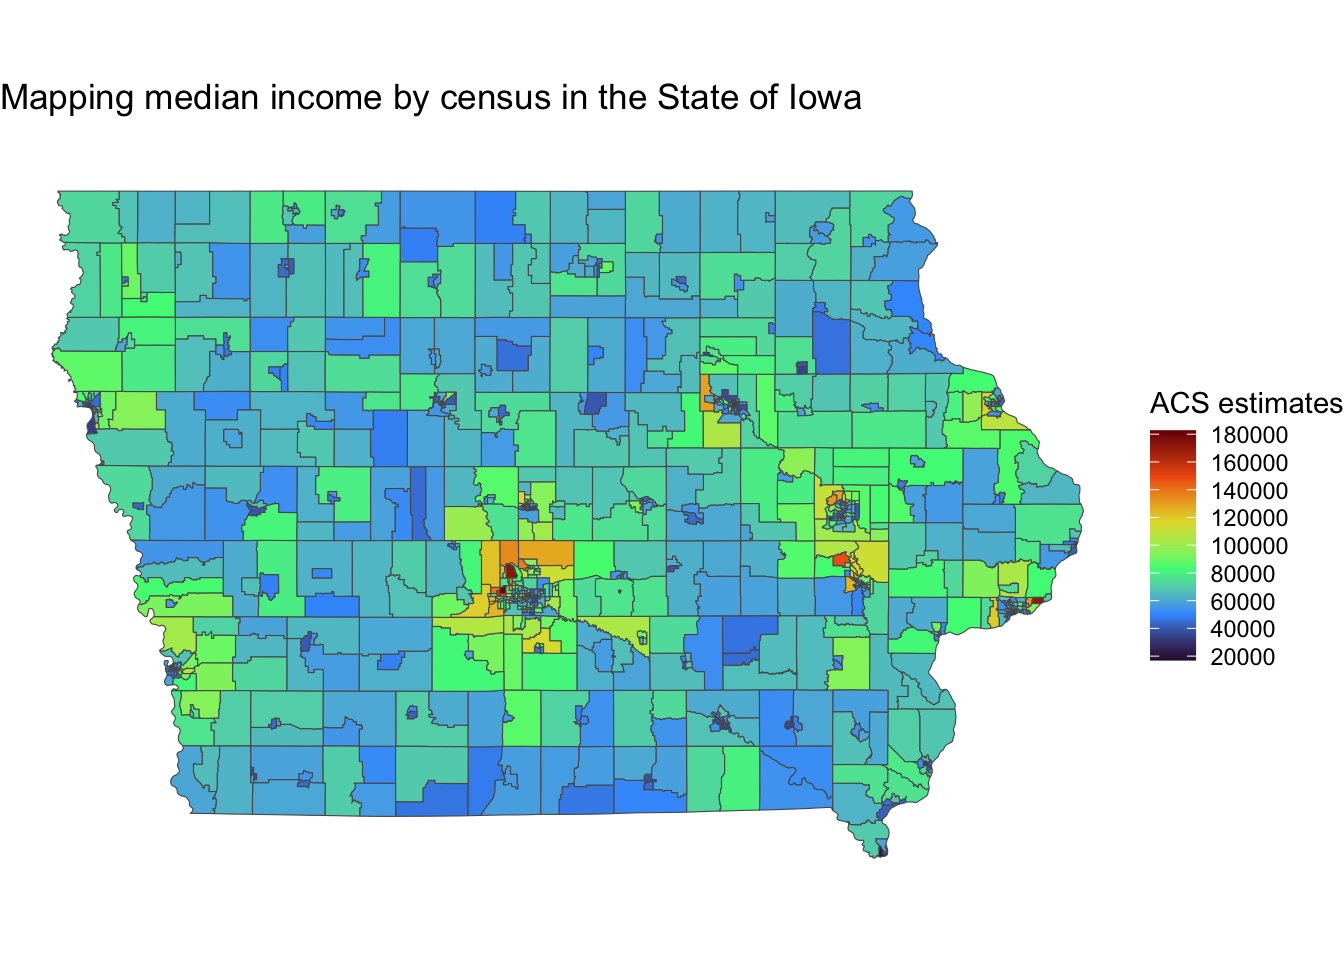
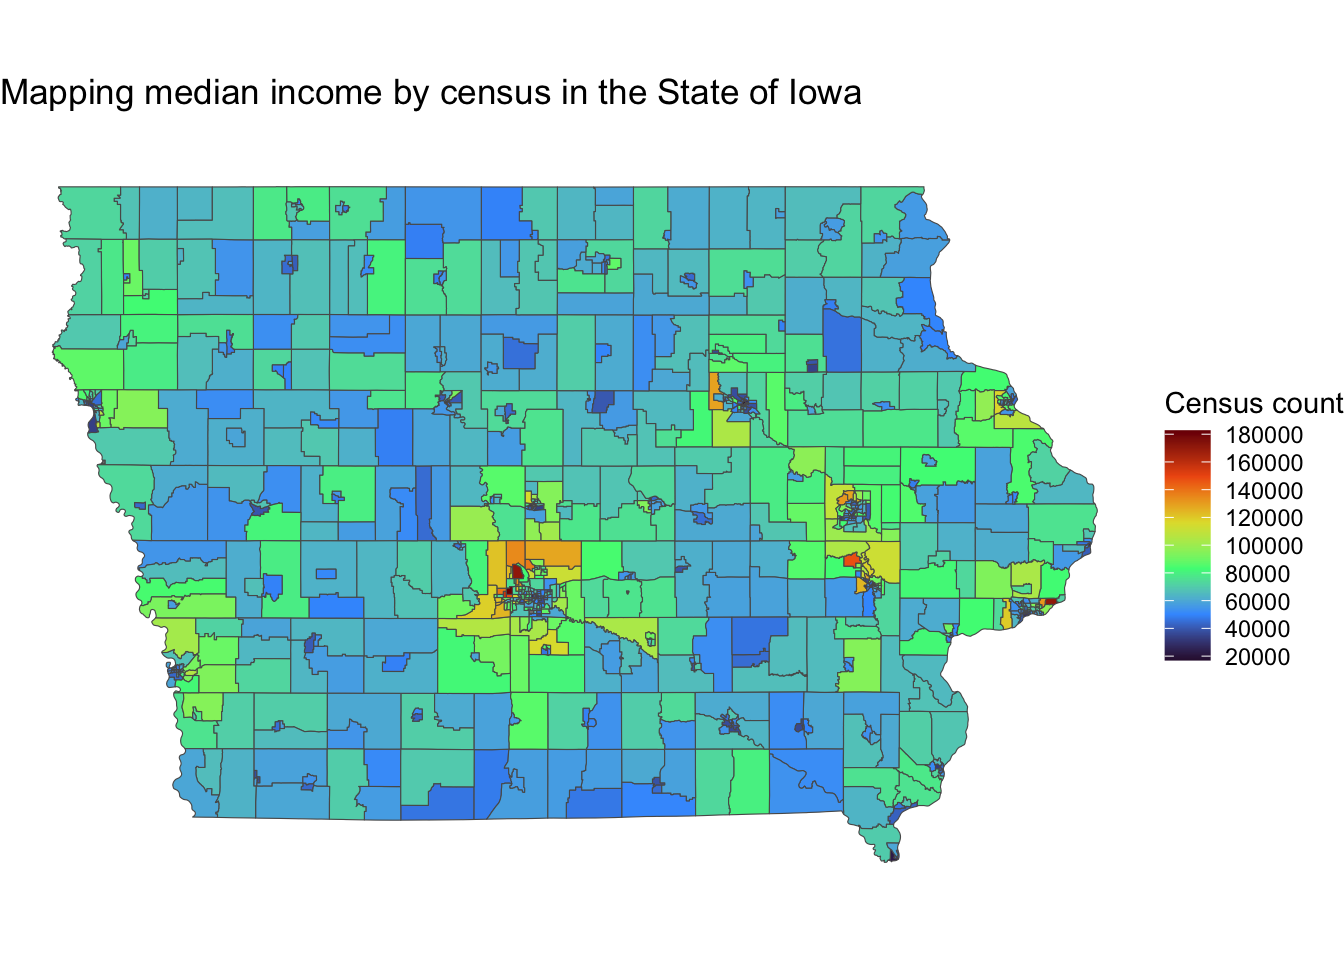
edits week 2

Changed region(s): [[0.0312, 0.1875, 0.8125, 0.9062], [0.8438, 0.4062, 1.0, 0.7188], [0.0, 0.0625, 0.6562, 0.125]]

diff --git a/docs/posts/Dev-Rokade-Week-Two/Week-Two-Blog.html b/docs/posts/Dev-Rokade-Week-Two/Week-Two-Blog.html
@@ -321,6 +321,8 @@ This warning is displayed once per session.</code></pre>
   |                                                                            
   |=                                                                     |   2%
   |                                                                            
+  |==                                                                    |   2%
+  |                                                                            
   |==                                                                    |   3%
   |                                                                            
   |===                                                                   |   4%
@@ -347,69 +349,65 @@ This warning is displayed once per session.</code></pre>
   |                                                                            
   |========                                                              |  12%
   |                                                                            
-  |==========                                                            |  15%
+  |=========                                                             |  13%
   |                                                                            
-  |===========                                                           |  15%
+  |==========                                                            |  15%
   |                                                                            
   |===========                                                           |  16%
   |                                                                            
   |============                                                          |  17%
   |                                                                            
-  |=============                                                         |  18%
-  |                                                                            
   |=============                                                         |  19%
   |                                                                            
   |==============                                                        |  19%
-  |                                                                            
-  |==============                                                        |  20%
   |                                                                            
   |==============                                                        |  21%
   |                                                                            
   |===============                                                       |  21%
   |                                                                            
-  |================                                                      |  23%
+  |===============                                                       |  22%
   |                                                                            
-  |=================                                                     |  24%
+  |================                                                      |  23%
   |                                                                            
   |=================                                                     |  25%
   |                                                                            
   |==================                                                    |  25%
   |                                                                            
-  |==================                                                    |  26%
+  |===================                                                   |  27%
   |                                                                            
-  |====================                                                  |  28%
+  |====================                                                  |  29%
   |                                                                            
   |======================                                                |  31%
   |                                                                            
   |========================                                              |  34%
   |                                                                            
-  |==========================                                            |  37%
+  |=========================                                             |  36%
   |                                                                            
   |============================                                          |  40%
   |                                                                            
-  |===============================                                       |  44%
+  |=================================                                     |  47%
   |                                                                            
-  |=================================                                     |  46%
+  |====================================                                  |  51%
   |                                                                            
-  |===================================                                   |  50%
+  |======================================                                |  55%
   |                                                                            
-  |=====================================                                 |  53%
-  |                                                                            
-  |=======================================                               |  55%
+  |=======================================                               |  56%
   |                                                                            
   |==========================================                            |  60%
   |                                                                            
+  |===========================================                           |  62%
+  |                                                                            
   |============================================                          |  63%
   |                                                                            
-  |=============================================                         |  64%
+  |===============================================                       |  67%
   |                                                                            
-  |=================================================                     |  69%
+  |===================================================                   |  74%
   |                                                                            
-  |========================================================              |  80%
+  |======================================================                |  78%
   |                                                                            
-  |================================================================      |  91%
+  |==========================================================            |  82%
   |                                                                            
-  |====================================================================  |  97%
+  |==================================================================    |  95%
   |                                                                            
   |======================================================================| 100%</code></pre>
 </div>
@@ -421,7 +419,7 @@ This warning is displayed once per session.</code></pre>
 <span id="cb18-4"><a href="#cb18-4" aria-hidden="true" tabindex="-1"></a>  <span class="fu">scale_fill_viridis_c</span>(<span class="at">option =</span> <span class="st">"H"</span>, <span class="at">n.breaks =</span> <span class="dv">10</span>) <span class="sc">+</span> </span>
 <span id="cb18-5"><a href="#cb18-5" aria-hidden="true" tabindex="-1"></a>  <span class="fu">labs</span>(<span class="at">title =</span> <span class="st">"Mapping median income by census in the State of Iowa"</span>,</span>
 <span id="cb18-6"><a href="#cb18-6" aria-hidden="true" tabindex="-1"></a>       <span class="at">subtitle =</span> <span class="st">""</span>,</span>
-<span id="cb18-7"><a href="#cb18-7" aria-hidden="true" tabindex="-1"></a>       <span class="at">fill =</span> <span class="st">"ACS estimates"</span>)</span>
+<span id="cb18-7"><a href="#cb18-7" aria-hidden="true" tabindex="-1"></a>       <span class="at">fill =</span> <span class="st">"Census count"</span>)</span>
 <span id="cb18-8"><a href="#cb18-8" aria-hidden="true" tabindex="-1"></a>median_barplot</span></code><button title="Copy to Clipboard" class="code-copy-button"><i class="bi"></i></button></pre></div>
 <div class="cell-output-display">
 <p><img src="Week-Two-Blog_files/figure-html/unnamed-chunk-5-1.png" class="img-fluid" width="672"></p>

diff --git a/docs/index.html b/docs/index.html
@@ -201,7 +201,7 @@ Dev Rokade
 </a>
 </div>
 </div>
-<div class="quarto-post image-right" data-index="1" data-categories="Week Two" data-listing-date-sort="1684904400000" data-listing-file-modified-sort="1685953848927" data-listing-reading-time-sort="1.97">
+<div class="quarto-post image-right" data-index="1" data-categories="Week Two" data-listing-date-sort="1684904400000" data-listing-file-modified-sort="1685954030569" data-listing-reading-time-sort="1.97">
 <div class="thumbnail">
 <a href="./posts/Dev-Rokade-Week-Two/Week-Two-Blog.html">
 <div class="thumbnail-image">
